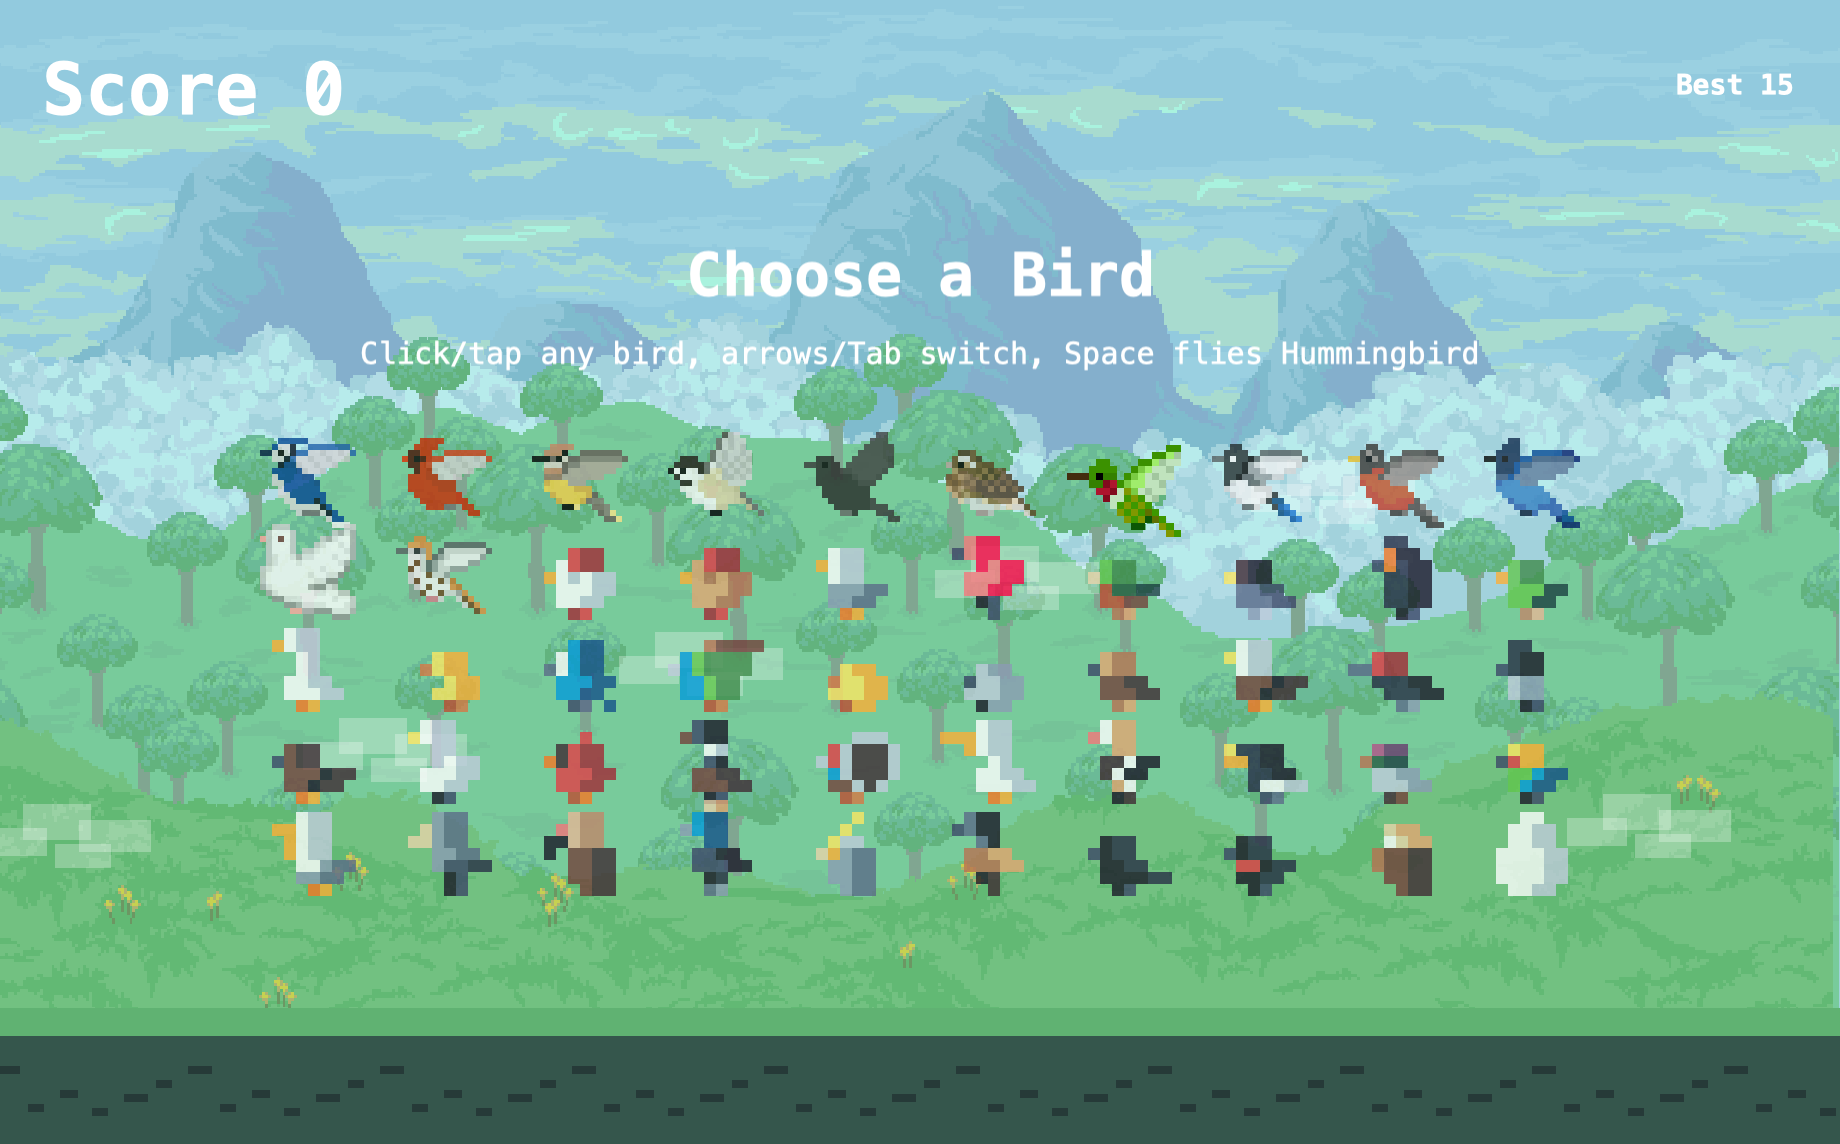
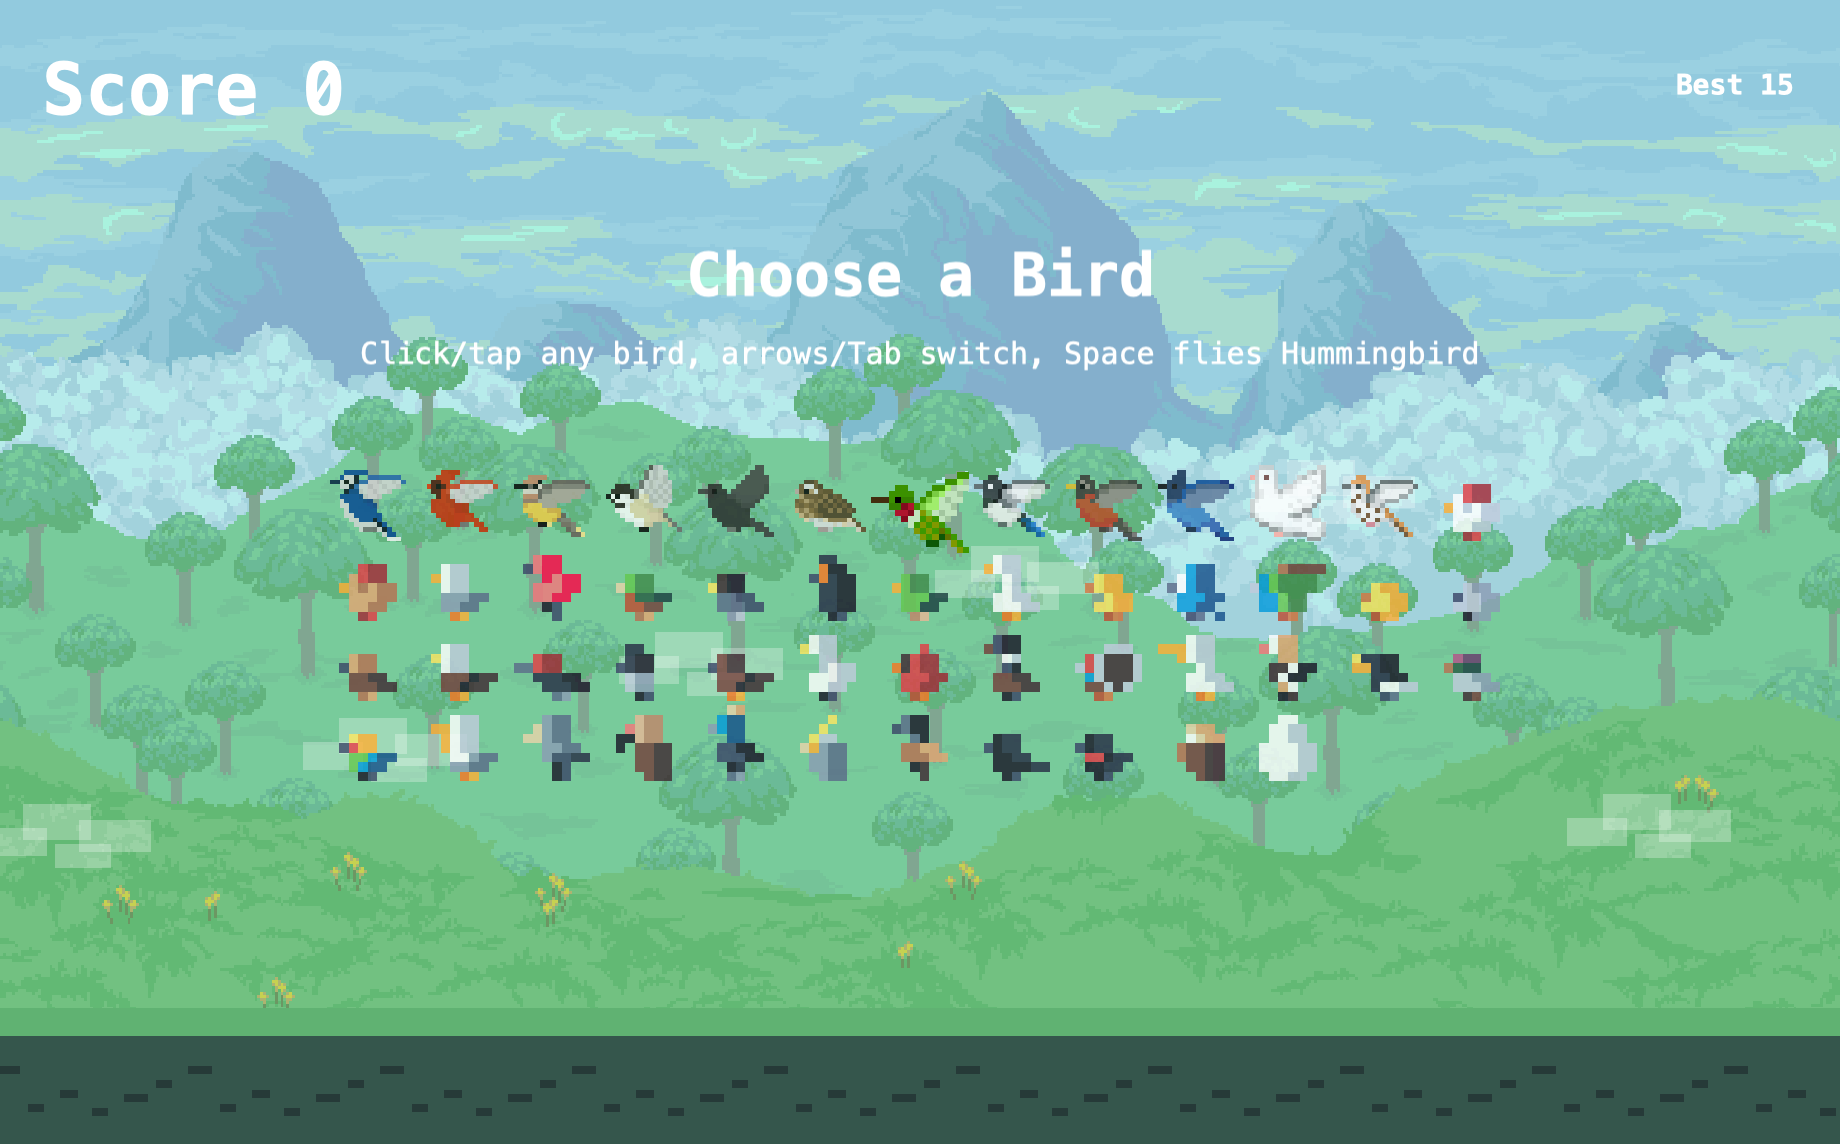
feat(prismcade-native): cleaner Flappy bird-select grid + sturdier parallax tiling
- Lay the 50-bird select grid out in 13 columns / 4 rows with smaller, uniformly
  sized cells so it no longer crowds the title or overflows the ground, and the
  in-game bird size is unchanged.
- Background parallax now uses 3 tiling copies and re-tiles to the current width on
  every layout, so a window resize can't leave the dark background colour exposed.

Note: a thin right-edge sliver of background colour still shows in the headless
autoverify snapshots; measurement shows the scene `size` is smaller than the
offscreen drawable in the closed-Mac capture path (a capture-env artifact), so it is
not reproducible in a normally-sized window. Tracked in NATIVE_POLISH_FINDINGS.

Verified: PrismcadeMac build succeeds; Flappy autoverify gates pass; select grid
snapshot regenerated and visibly clean.

diff --git a/apps/prismcade-native/Shared/Scenes/FlappyPixelScene.swift b/apps/prismcade-native/Shared/Scenes/FlappyPixelScene.swift
@@ -138,7 +138,7 @@ final class FlappyPixelScene: SKScene {
         for (index, frames) in birdFramesByChoice.enumerated() {
             let node = SKSpriteNode(texture: frames.first)
             node.name = "flappy-bird-choice-\(index)"
-            node.size = CGSize(width: 48, height: 48)
+            node.size = CGSize(width: 38, height: 38)
             node.zPosition = 45
             addChild(node)
             choiceNodes.append(node)
@@ -199,7 +199,9 @@ final class FlappyPixelScene: SKScene {
         for spec in specs {
             let texture = SKTexture(imageNamed: spec.0)
             texture.filteringMode = .nearest
-            let nodes = (0..<2).map { index in
+            // Three tiling copies so even very wide windows never expose the
+            // dark background colour at the right edge as the layer scrolls.
+            let nodes = (0..<3).map { index in
                 let node = SKSpriteNode(texture: texture)
                 node.anchorPoint = CGPoint(x: 0, y: 0)
                 node.zPosition = spec.2
@@ -249,27 +251,29 @@ final class FlappyPixelScene: SKScene {
         let height = max(size.height, 1)
         for layer in backgroundLayers {
             for (index, node) in layer.nodes.enumerated() {
+                // Re-tile to the current width on every layout so a window resize
+                // can never leave the dark background colour exposed at an edge.
                 node.size = CGSize(width: width + 4, height: height)
-                if node.position == .zero || abs(node.position.x) > width * 2 {
-                    node.position = CGPoint(x: CGFloat(index) * width, y: 0)
-                }
+                node.position = CGPoint(x: CGFloat(index) * width, y: 0)
             }
         }
     }
 
     private func layoutChoices() {
-        let columns = 10
-        let spacingX = min(size.width / 11.2, 68)
-        let spacingY: CGFloat = 46
+        // 13 columns keeps the 50-bird roster to 4 tidy rows that clear the title
+        // and the ground on both narrow and wide windows.
+        let columns = 13
+        let spacingX = min(size.width / 13.8, 46)
+        let spacingY: CGFloat = 40
         let startX = size.width / 2 - spacingX * CGFloat(columns - 1) / 2
-        let startY = min(size.height * 0.58, size.height - 180)
+        let startY = min(size.height * 0.56, size.height - 150)
         for (index, node) in choiceNodes.enumerated() {
             node.isHidden = phase != .selecting
             let column = index % columns
             let row = index / columns
             node.position = CGPoint(x: startX + CGFloat(column) * spacingX, y: startY - CGFloat(row) * spacingY)
-            node.setScale(index == selectedBirdIndex ? 1.18 : 1.0)
-            node.alpha = index == selectedBirdIndex ? 1 : 0.78
+            node.setScale(index == selectedBirdIndex ? 1.3 : 1.0)
+            node.alpha = index == selectedBirdIndex ? 1 : 0.8
         }
         bird.isHidden = phase == .selecting
     }